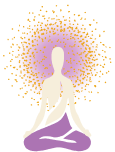
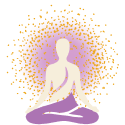
refactor: update classes page component with improved filter handling and UI enhancements

diff --git a/src/app/classes-page-component/classes-page.component.ts b/src/app/classes-page-component/classes-page.component.ts
@@ -1,9 +1,9 @@
 import { CommonModule } from '@angular/common';
-import { ChangeDetectionStrategy, Component, ElementRef, OnInit, inject, viewChild } from '@angular/core';
+import { ChangeDetectionStrategy, Component, ElementRef, OnInit, inject, signal, viewChild } from '@angular/core';
 import { ActivatedRoute, Router } from '@angular/router';
 import { YogaClassesService } from '../services/yoga-classes-service';
 import { YogaClassData } from '../shared/yoga-class-data';
-import { Observable, map, switchMap, tap } from 'rxjs';
+import { Observable, map, switchMap, take, tap } from 'rxjs';
 import { YogaClass } from "../shared/yoga-class-component/yoga-class/yoga-class";
 import { YogaStyleDescription } from '../shared/yoga-style-description-data';
 import { YogaClassesFilter } from '../shared/yoga-classes-filter-component/yoga-classes-filter/yoga-classes-filter';
@@ -25,8 +25,9 @@ export class ClassesPageComponent implements OnInit {
   challengeLevels = challengeLevels;
   yogaStyle$!: Observable<YogaStyleDescription>;
   classes$!: Observable<YogaClassData[]>;
-  protected selectedClasses: YogaClassData[] = [];
+  protected selectedClasses = signal<YogaClassData[]>([]);
   protected isYogaImageHovered = false;
+  protected isShowOnPageHovered = false;
   protected selectedStyleId: string = 'all';
   existingFilters = new Map<string, FilterChange[]>();
 
@@ -49,7 +50,11 @@ export class ClassesPageComponent implements OnInit {
       .get('ids')
       ?.split(',')
       .filter(Boolean) ?? [];
-    //console.log('classesIds - ' + JSON.stringify(classesIds))
+    console.log('classesIds - ' + JSON.stringify(classesIds))
+
+    this.yogaService.getClassByIDs(classesIds).pipe(take(1)).subscribe((classes) => {
+      this.selectedClasses.set(classes);
+    });
   }
 
   onFilterChange(changed: FilterChange, filter: string) {
@@ -67,7 +72,11 @@ export class ClassesPageComponent implements OnInit {
       this.existingFilters.set(filter, [changed])
 
     this.classes$ = this.yogaService.getFilteredClasses(this.selectedStyleId, this.existingFilters);
+  }
 
+  protected clearFilters(): void {
+    this.existingFilters.clear();
+    this.classes$ = this.yogaService.getFilteredClasses(this.selectedStyleId, null);
   }
 
   protected classesNavbarClick(page: string): void {
@@ -82,25 +91,21 @@ export class ClassesPageComponent implements OnInit {
   }
 
   protected addSelectedClass(yogaClass: YogaClassData): void {
-    const isAlreadySelected = this.selectedClasses.some((selected) => selected.id === yogaClass.id);
+    const selectedClasses = this.selectedClasses();
+    const isAlreadySelected = selectedClasses.some((selected) => selected.id === yogaClass.id);
     if (isAlreadySelected) {
-      this.selectedClasses = this.selectedClasses.filter((selected) => selected.id !== yogaClass.id);
+      this.selectedClasses.set(selectedClasses.filter((selected) => selected.id !== yogaClass.id));
       return;
     }
 
-    this.selectedClasses = [...this.selectedClasses, yogaClass];
+  this.selectedClasses.set([...selectedClasses, yogaClass]);
+  }
+    clearSelectedClasses() {
+    this.selectedClasses.set([]);
   }
 
   protected isClassSelected(yogaClass: YogaClassData): boolean {
-    return this.selectedClasses.some((selected) => selected.id === yogaClass.id);
-  }
-
-  protected clearFilters(): void {
-    const container = this.filtersRowContainer().nativeElement;
-    const checkboxes = container.querySelectorAll<HTMLInputElement>('input.check-box[type="checkbox"]');
-    checkboxes.forEach((checkbox) => {
-      checkbox.checked = false;
-    });
+    return this.selectedClasses().some((selected) => selected.id === yogaClass.id);
   }
 
   selectedClassesClick(classes: YogaClassData[]) {

diff --git a/src/app/classes-page-component/classes-page.component.html b/src/app/classes-page-component/classes-page.component.html
@@ -28,8 +28,10 @@
           <label class="filters-text-box">Filters</label>
         </div>
         <app-yoga-classes-filter [filterName]="'duration'" [filterOptions]="durations"
+          [savedOptions]="existingFilters.get('duration')"
           (filterChange)="onFilterChange($event, 'duration')"></app-yoga-classes-filter>
         <app-yoga-classes-filter [filterName]="'challenge level'" [filterOptions]="challengeLevels"
+          [savedOptions]="existingFilters.get('challenge level')"
           (filterChange)="onFilterChange( $event, 'challenge level')"></app-yoga-classes-filter>
         <div class="clear" (click)="clearFilters()">x clear</div>
       </div>
@@ -37,24 +39,24 @@
       <div class="main-classes-container">
         <img class="arrow-left" src="/assets/images/arrow-left.png">
         <div class="selected-classes-container">
-          @if (selectedClasses.length === 0) {
+          @if (selectedClasses().length === 0) {
           <div class="selected-class-small">
             <div class="selected-class-caption">Select a class</div>
           </div>
           }
 
-          @for (selectedClass of selectedClasses; track selectedClass.id) {
+          @for (selectedClass of selectedClasses(); track selectedClass.id) {
           <div class="selected-class-small">
             <video [src]="selectedClass.videoLink"></video>
             <div class="selected-class-caption">{{ selectedClass.title }}</div>
           </div>
           }
-          <div class="show-on-page-container" (click)="selectedClassesClick(selectedClasses)">
-            <div class="show-on-page">Show on page</div>
-            <img src="/assets/images/ShowOnPageArrow.png">
+          <div class="show-on-page-container" (click)="selectedClassesClick(selectedClasses())"
+            (mouseenter)="isShowOnPageHovered = true" (mouseleave)="isShowOnPageHovered = false">
+            <img
+              [src]="isShowOnPageHovered ? '/assets/images/show-on-page-hover.png' : '/assets/images/show-on-page.png'">
           </div>
-          <div class="selected-classes-clear">X clear</div>
-
+          <div class="selected-classes-clear" (click)="clearSelectedClasses()">X clear</div>
         </div>
         <img class="arrow-right" src="/assets/images/arrow-right.png">
       </div>
@@ -69,7 +71,7 @@
             <div class="teacher-name">{{ classItem.teacherName}}</div>
             <div class="yoga-class-time">{{classItem.classLength}}</div>
           </div>
-          <app-yoga-class [classData]="classItem" [descriptionWidth]="371" [showClassLength]="false"></app-yoga-class>
+          <app-yoga-class [classData]="classItem" [descriptionWidth]="361" [showClassLength]="false"></app-yoga-class>
         </div>
         }
       </div>

diff --git a/src/app/classes-page-component/classes-page.component.css b/src/app/classes-page-component/classes-page.component.css
@@ -168,6 +168,10 @@
   gap: 10px;
 }
 
+.arrow-right {
+  margin-right: 10px;
+}
+
 .arrow-left:hover,
 .arrow-right:hover,
 .selected-classes-clear:hover,
@@ -184,10 +188,6 @@
   text-transform: capitalize;
   color: #243376;
 }
-/* 
-.show-on-page:hover {
-  ADD HOVER IMAGE
-} */
 
 .selected-classes-clear {
   position: absolute;
@@ -204,6 +204,11 @@
   z-index: 2;
 }
 
+.selected-classes-clear:hover {
+  color: #47484d;
+}
+
+
 .selected-class-small {
   box-sizing: border-box;
   display: flex;
@@ -215,22 +220,24 @@
   width: 155px;
   height: 93px;
   background: #F8F8FF;
-  opacity: 0.5;
   border: 1px solid #1C5B90;
   border-radius: 10px;
   margin-top: 40px;
+  opacity: 0.5;
 }
 
 .selected-class-small video {
   border-radius: 10px;
-  width: 155px;
-  height: 93px;
+  width: 150px;
+  height: 90px;
 }
+
+/* .selected-class-small:hover, */
 
 .selected-class-caption {
   font-family: 'Mona Sans';
   font-style: normal;
-  font-weight: 400;
+  font-weight: 800;
   font-size: 15px;
   line-height: 25px;
   display: flex;
@@ -240,10 +247,11 @@
   inset: 0;
   z-index: 1;
   text-transform: capitalize;
-  color: rgba(36, 51, 118, 0.7);
+  color: rgba(8, 2, 17, 0.555);
   text-align: center;
-  width: 155px;
-  height: 93px;
+  width: 150px;
+  height: 90px;
+  opacity: 0.9;
 }
 
 .yoga-classes {
@@ -273,34 +281,8 @@
   height: 450px;
   border: 1px solid transparent;
   border-radius: 3px;
-  padding: 6px;
+  padding: 10px;
   cursor: pointer;
-}
-
-.yoga-class-meta {
-  scrollbar-width: thin;
-  scrollbar-color: #c9dfec rgba(28, 90, 142, 0.1);
-}
-
-.yoga-class-meta::-webkit-scrollbar {
-  width: 6px;
-}
-
-.yoga-class-meta::-webkit-scrollbar-track {
-  background: rgba(28, 90, 142, 0.1);
-  border-radius: 4px;
-}
-
-.yoga-class-meta::-webkit-scrollbar-thumb {
-  background: #1F6B9A;
-  border-radius: 4px;
-  border: 2px solid transparent;
-  background-clip: content-box;
-}
-
-.yoga-class-meta::-webkit-scrollbar-thumb:hover {
-  background: #101C50;
-  background-clip: content-box;
 }
 
 .yoga-class-meta.is-selected {

diff --git a/src/app/shared/yoga-classes-filter-component/yoga-classes-filter/yoga-classes-filter.ts b/src/app/shared/yoga-classes-filter-component/yoga-classes-filter/yoga-classes-filter.ts
@@ -13,10 +13,18 @@ export class YogaClassesFilter {
   readonly filterName = input<string | null>(null);
   readonly filterOptions = input<string[] | null>(null);
   readonly savedOption = input<string>();
+  readonly savedOptions = input<FilterChange[]>();
   readonly readOnly = input<boolean>(false);
   readonly selectedOption = signal<string>('');
 
   readonly filterChange = output<FilterChange>();
+
+  isOptionSaved(filterOption: string): boolean {
+    return this.savedOption() === filterOption ||
+      (this.savedOptions()?.some((savedFilter) =>
+        savedFilter.checked && savedFilter.filterOption === filterOption
+      ) ?? false);
+  }
 
   onFilterChange(filterOption: string, checked: boolean) {
     const filter = this.filterName();

diff --git a/src/app/shared/yoga-class-details-component/yoga-class-details/yoga-class-details.html b/src/app/shared/yoga-class-details-component/yoga-class-details/yoga-class-details.html
@@ -77,8 +77,15 @@
                 </div>
             </div>
             }
-        </div>       
+        </div>
     </div>    
+    @if (yogaClass.approved == true) {
+    <hr class="divider">
+    <app-delete-component></app-delete-component>
+    <!-- <img src="/assets/images/delete.png" (click)="showDeleteClass()">
+    <app-delete-class-message [isOpen]="isDeleteModalOpen()"
+        (Click)="deleteClass(yogaClass, $event)"></app-delete-class-message> -->
+    }
 </div>
 
 }

diff --git a/src/app/shared/yoga-classes-filter-component/yoga-classes-filter/yoga-classes-filter.html b/src/app/shared/yoga-classes-filter-component/yoga-classes-filter/yoga-classes-filter.html
@@ -4,7 +4,7 @@
     <app-check-box 
       [inputValue]="filterOption" 
       [disabled]="readOnly() == true"
-      [checked]="savedOption() == filterOption"
+      [checked]="isOptionSaved(filterOption)"
       (checkChange)="readOnly() == false ? onFilterChange(filterOption, $event) : null"
       >
     </app-check-box>

diff --git a/src/app/selected-classes-component/selected-classes/selected-classes.ts b/src/app/selected-classes-component/selected-classes/selected-classes.ts
@@ -44,9 +44,9 @@ export class SelectedClasses implements OnInit {
 
   async back() {
     const page = await this.yogaStyleId();
-    console.log(page);
-    this.router.navigate(['/classes', page]);
-
+    this.router.navigate(['/classes', page], {
+      queryParams: { ids: this.classesIds.join(',') }
+    });
   }
 
 }
